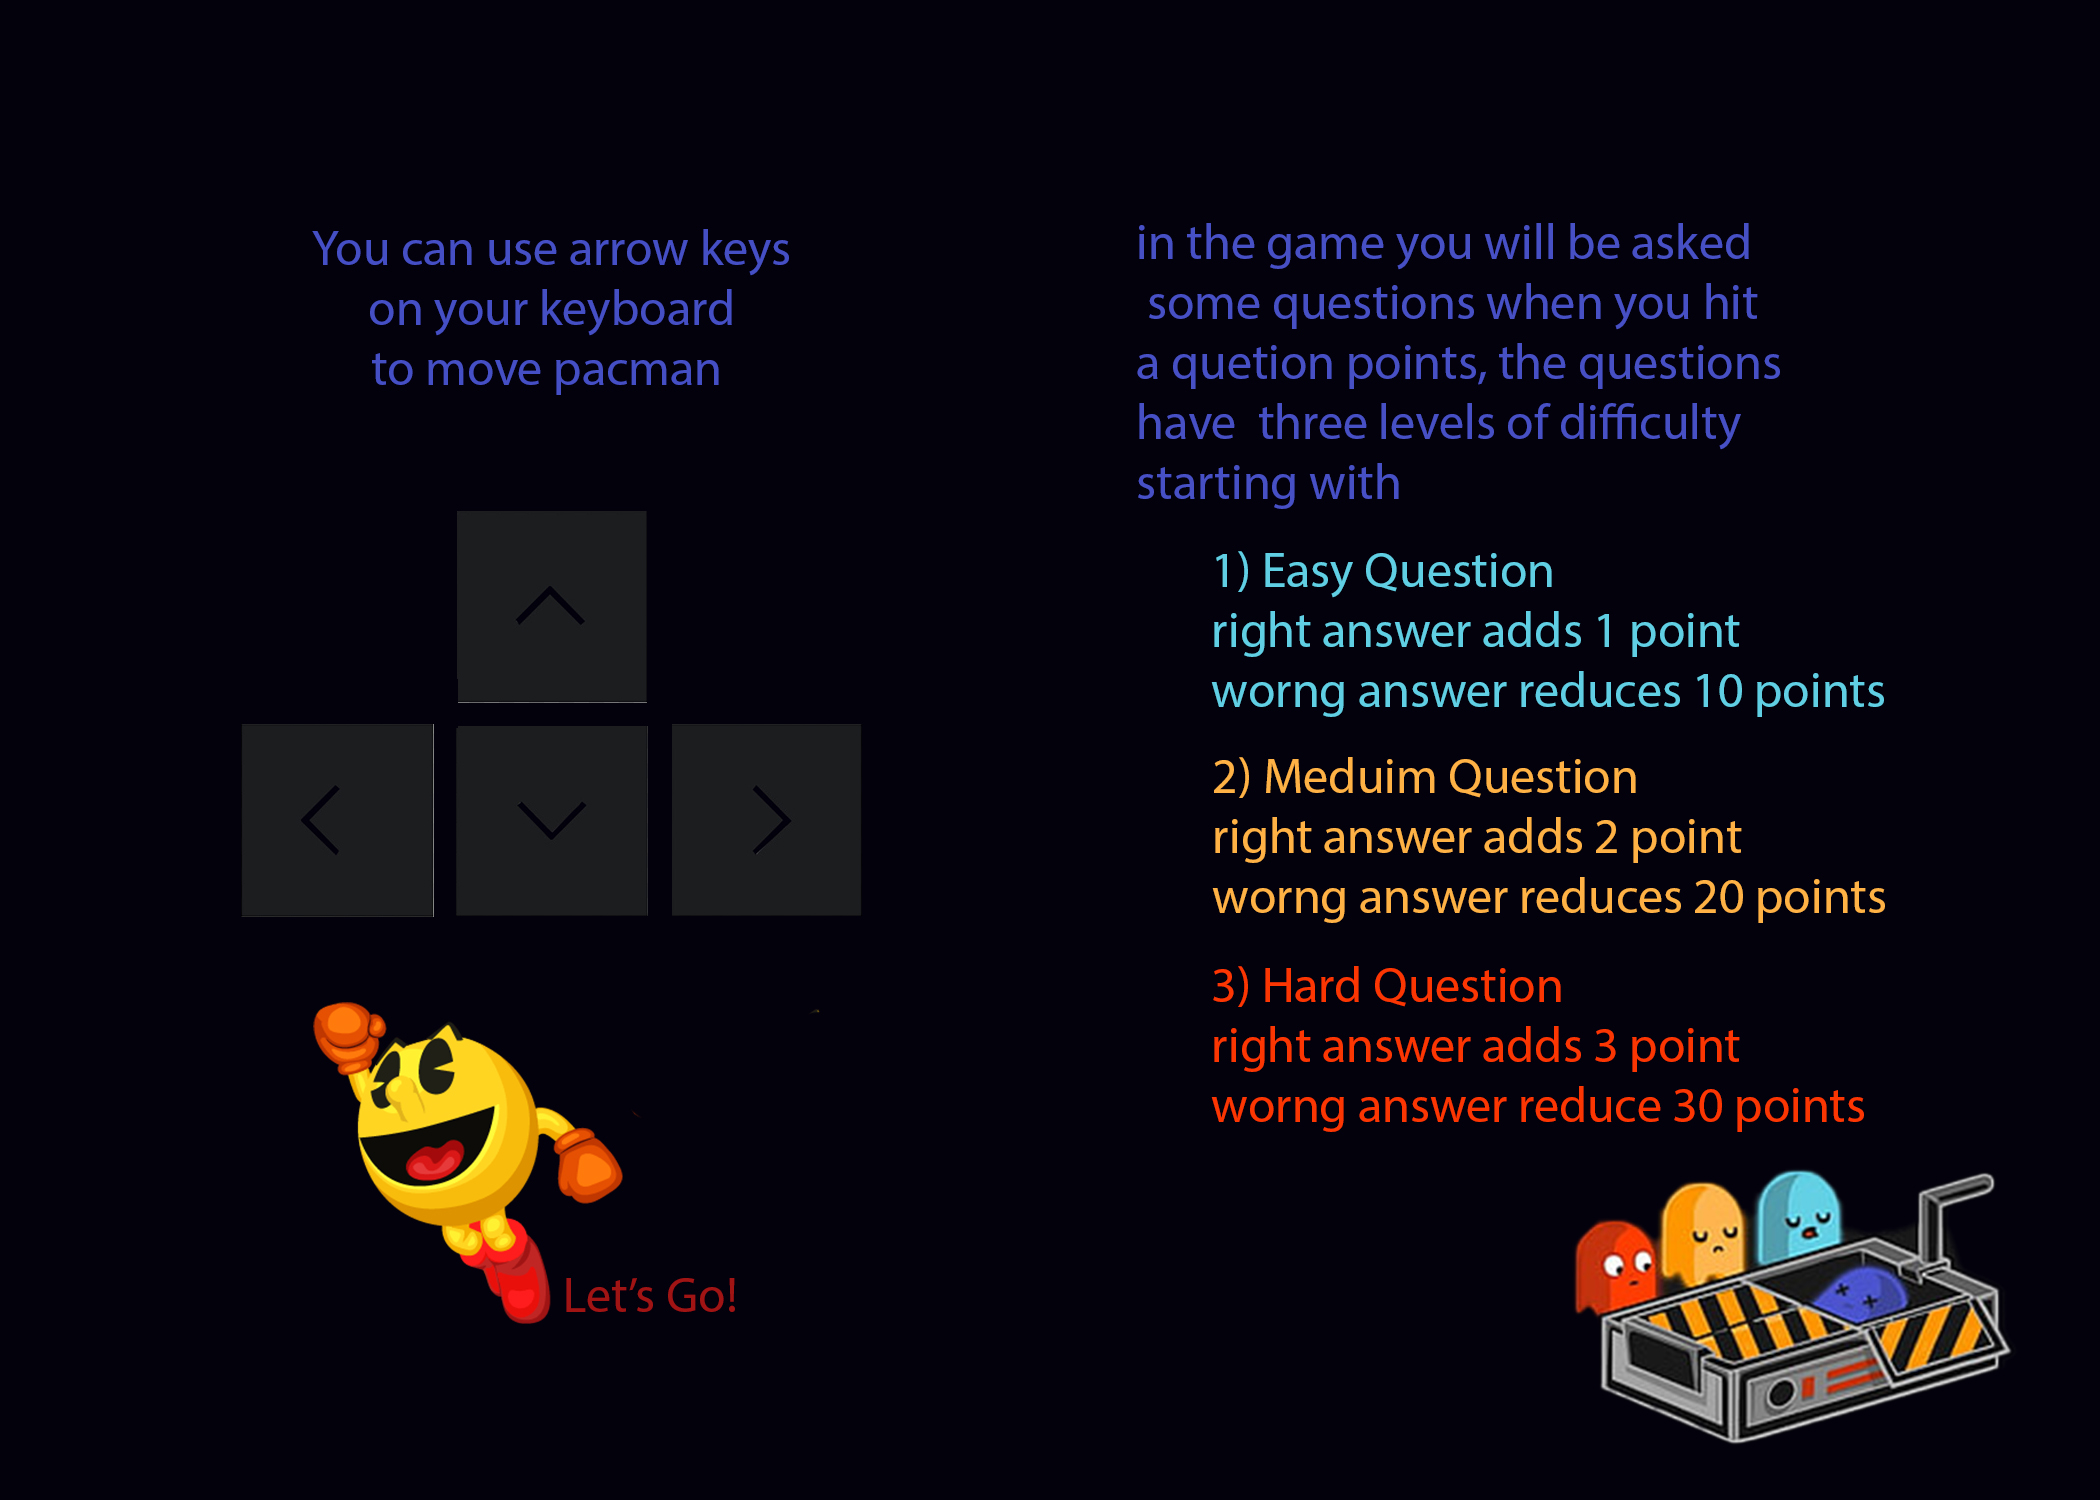
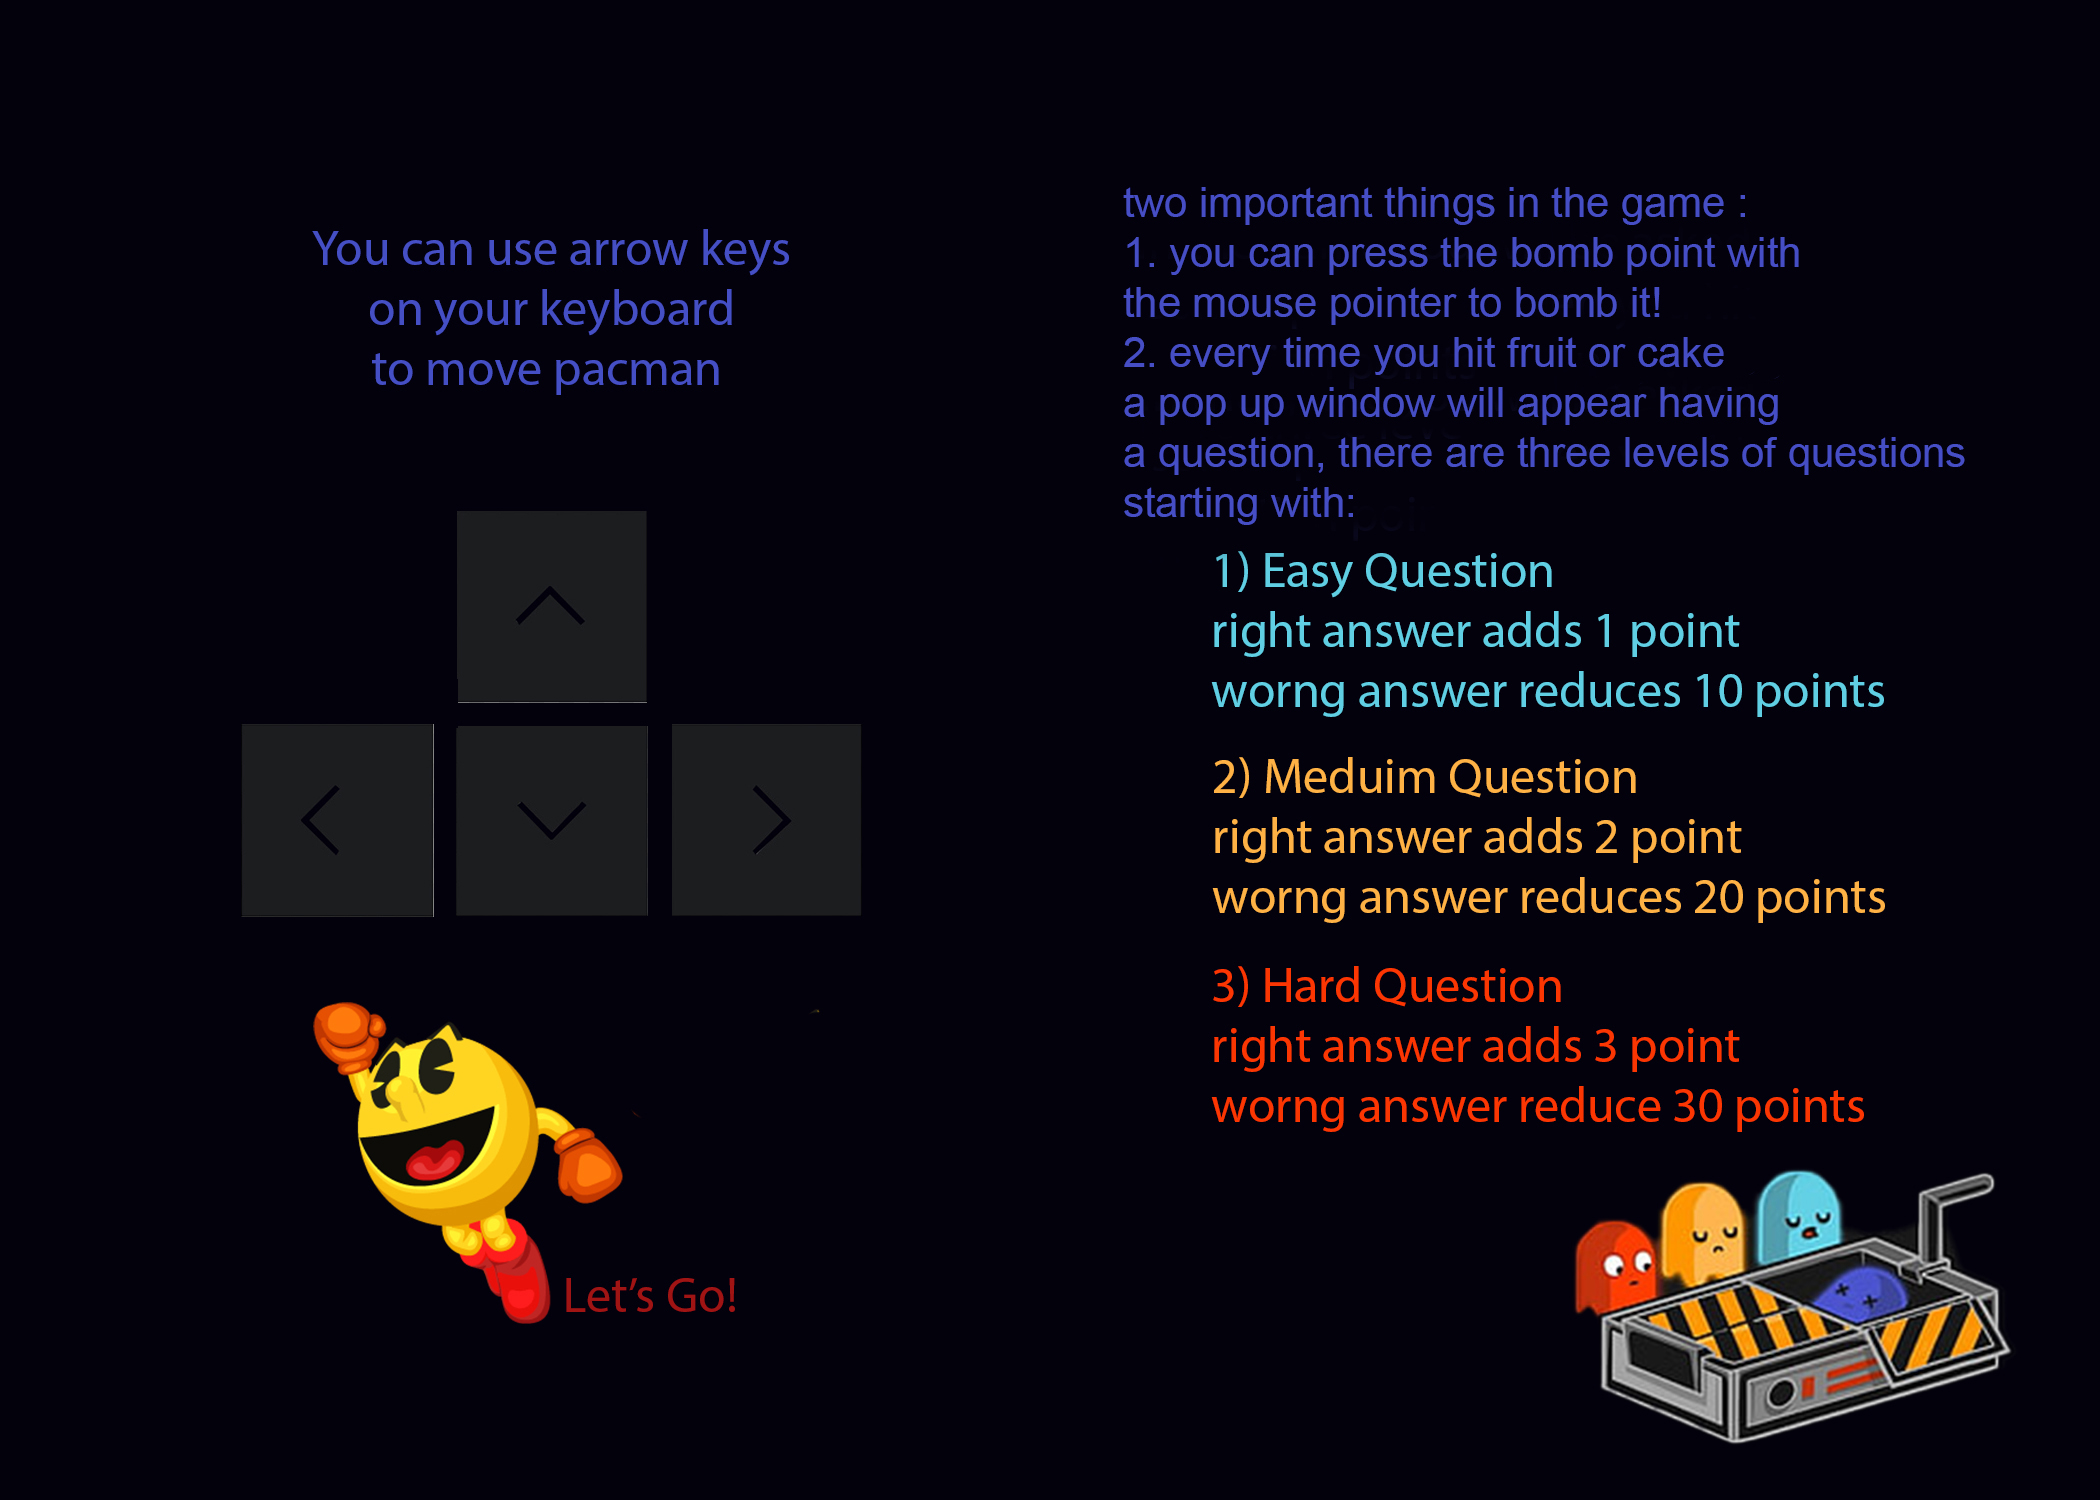
test added, how to play changed

Changed region(s): [[0.5262, 0.1227, 0.9286, 0.368]]

diff --git a/src/Testing/gittingquesbydiff.java b/src/Testing/gittingquesbydiff.java
@@ -1,0 +1,25 @@
+import static org.junit.jupiter.api.Assertions.*;
+
+import java.util.ArrayList;
+
+import org.junit.jupiter.api.Test;
+
+import Controller.SysData;
+import Model.Question;
+import Utils.Level;
+
+class gittingquesbydiff {
+
+	@Test
+	void test() {
+		SysData instance = SysData.getInstance();
+		instance.getQuestions();
+		Question hardQtest = instance.randomQuestion(Level.hard);
+		Question medQtest = instance.randomQuestion(Level.medium);
+		Question easyQtest = instance.randomQuestion(Level.easy);
+		assertNotNull(hardQtest);
+		assertNotNull(medQtest);
+		assertNotNull(easyQtest);
+	}
+
+}
